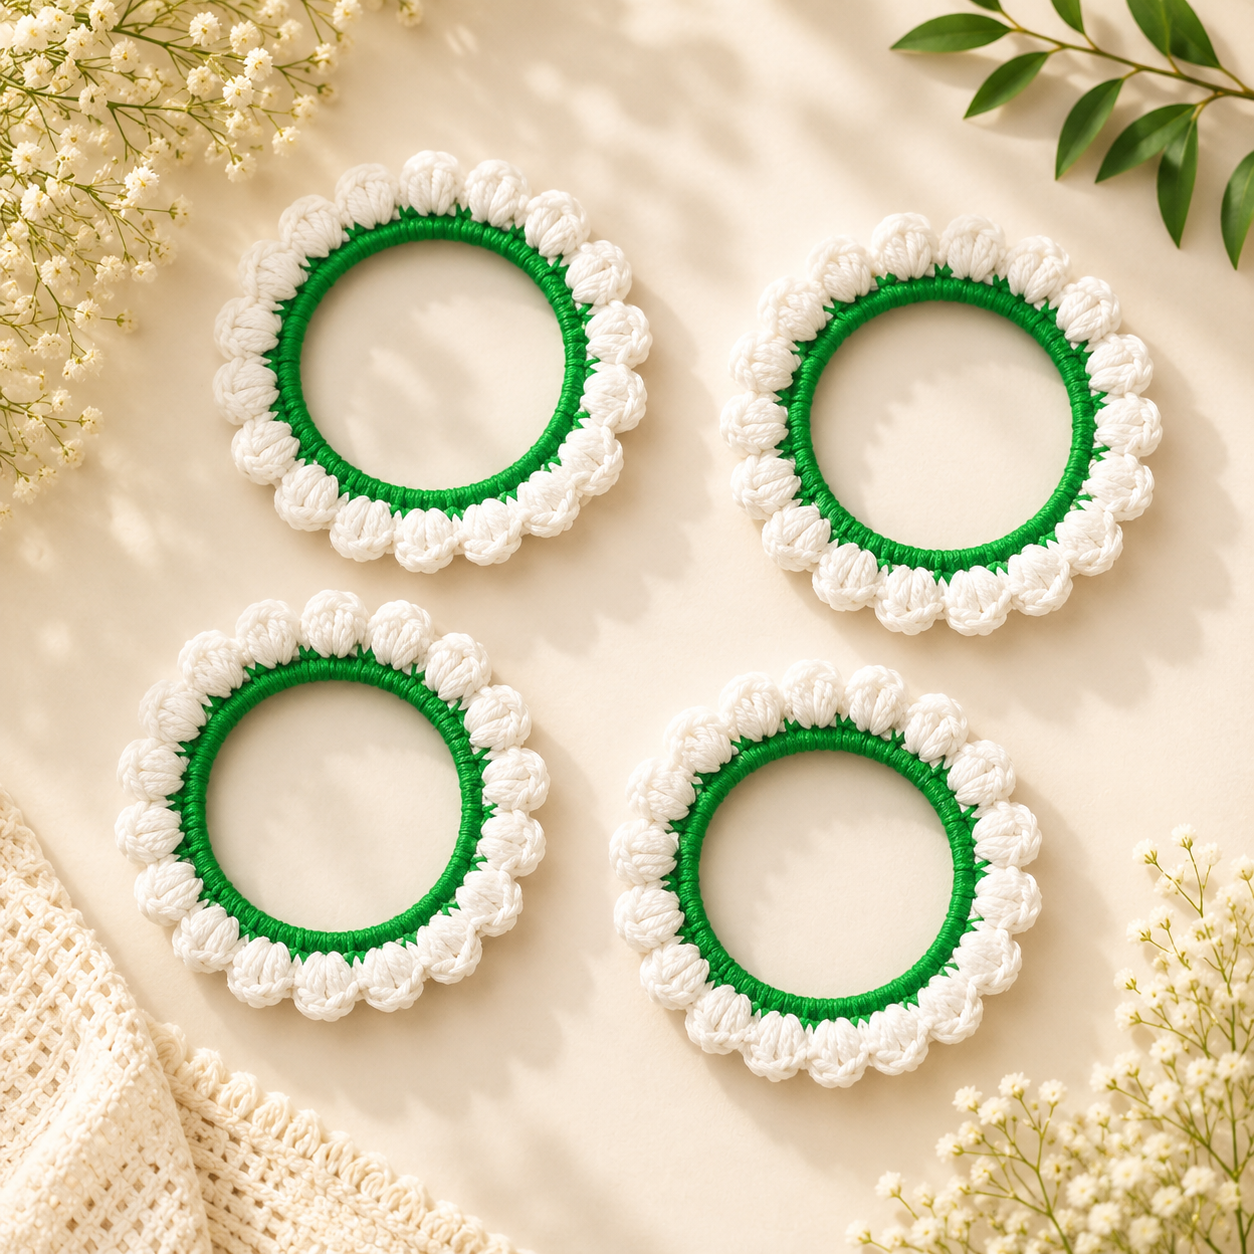
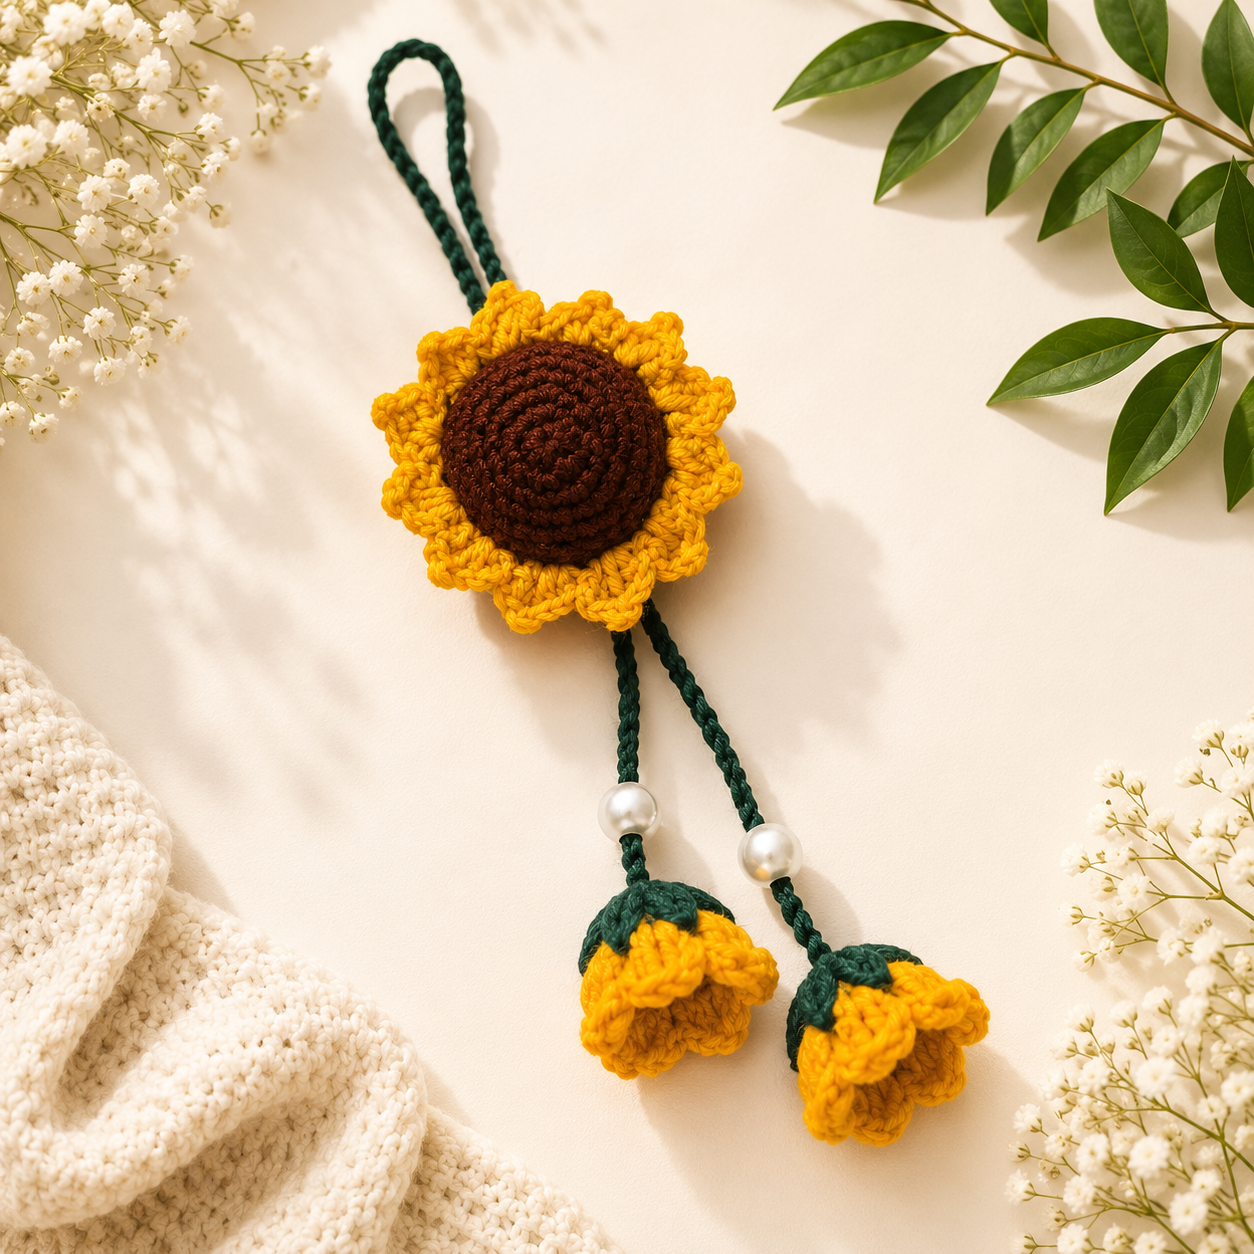
fdsa4g

diff --git a/src/data/categories.ts b/src/data/categories.ts
@@ -1,6 +1,9 @@
 import type { StaticImageData } from "next/image";
 import FlowerCategory from "../../public/products/flower/1.png"
 import HairCategory from '../../public/products/hair/1.png'
+import HandCategory from '../../public/products/hand/1.png'
+import HomeCategory from '../../public/products/home/1.png'
+
 
 export interface Category {
   id: string;
@@ -12,7 +15,7 @@ export interface Category {
 
 export const categories: Category[] = [
   {
-    id: "cat-bags",
+    id: "cat-hair",
     name: "Crochet Hair Accessories",
     slug: "crochet-hair-accessories",
     description: "Chic, durable, and stylish handmade bags for your everyday essentials.",
@@ -26,18 +29,18 @@ export const categories: Category[] = [
     image: FlowerCategory
   },
   {
-    id: "cat-keychains",
-    name: "Crochet Keychains",
-    slug: "crochet-keychains",
+    id: "cat-hand",
+    name: "Crochet Hand Accessories",
+    slug: "crochet-hand-accessories",
     description: "Adorable, bite-sized companions to carry your keys or adorn your backpacks.",
-    image: "https://images.unsplash.com/photo-1598300042247-d088f8ab3a91?auto=format&fit=crop&w=600&q=80"
+    image: HandCategory
   },
   {
-    id: "cat-dolls",
-    name: "Crochet Dolls",
-    slug: "crochet-dolls",
-    description: "Cute and cuddly amigurumi toys crafted with hypoallergenic yarn.",
-    image: "https://images.unsplash.com/photo-1615486511484-92e172cc4fe0?auto=format&fit=crop&w=600&q=80"
+    id: "cat-home",
+    name: "Crochet Home Decor",
+    slug: "crochet-home-decor",
+    description: "Coasters, table runners, and wall hangings that make a house feel like a home.",
+    image: HomeCategory
   },
   {
     id: "cat-accessories",
@@ -45,26 +48,5 @@ export const categories: Category[] = [
     slug: "crochet-accessories",
     description: "Cozy headbands, scrunchies, hats, and scarves to elevate your style.",
     image: "https://images.unsplash.com/photo-1575413829029-1bb393595e52?auto=format&fit=crop&w=600&q=80"
-  },
-  {
-    id: "cat-decor",
-    name: "Crochet Home Decor",
-    slug: "crochet-home-decor",
-    description: "Coasters, table runners, and wall hangings that make a house feel like a home.",
-    image: "https://images.unsplash.com/photo-1513519245088-0e12902e5a38?auto=format&fit=crop&w=600&q=80"
-  },
-  {
-    id: "cat-gifts",
-    name: "Crochet Gifts",
-    slug: "crochet-gifts",
-    description: "Thoughtfully packaged, custom gift bundles for baby showers, birthdays, and anniversaries.",
-    image: "https://images.unsplash.com/photo-1549465220-1a8b9238cd48?auto=format&fit=crop&w=600&q=80"
-  },
-  {
-    id: "cat-custom",
-    name: "Custom Crochet",
-    slug: "custom-crochet",
-    description: "Have a unique design in mind? Share your dream and let's bring it to life stitch by stitch.",
-    image: "https://images.unsplash.com/photo-1517594422361-5eeb8ae275a9?auto=format&fit=crop&w=600&q=80"
   }
 ];
